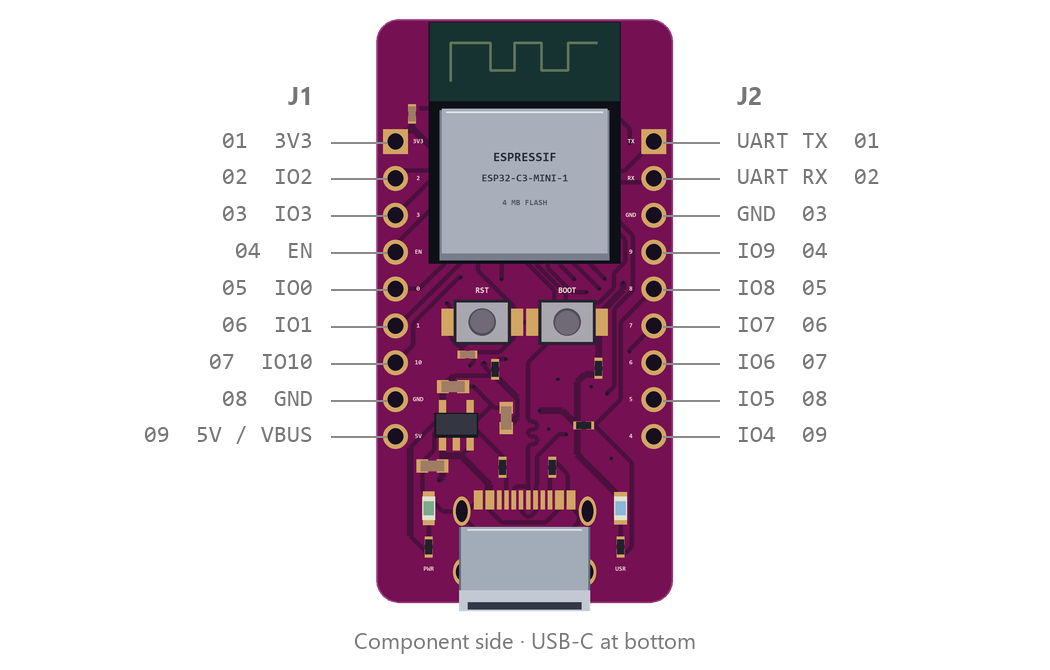
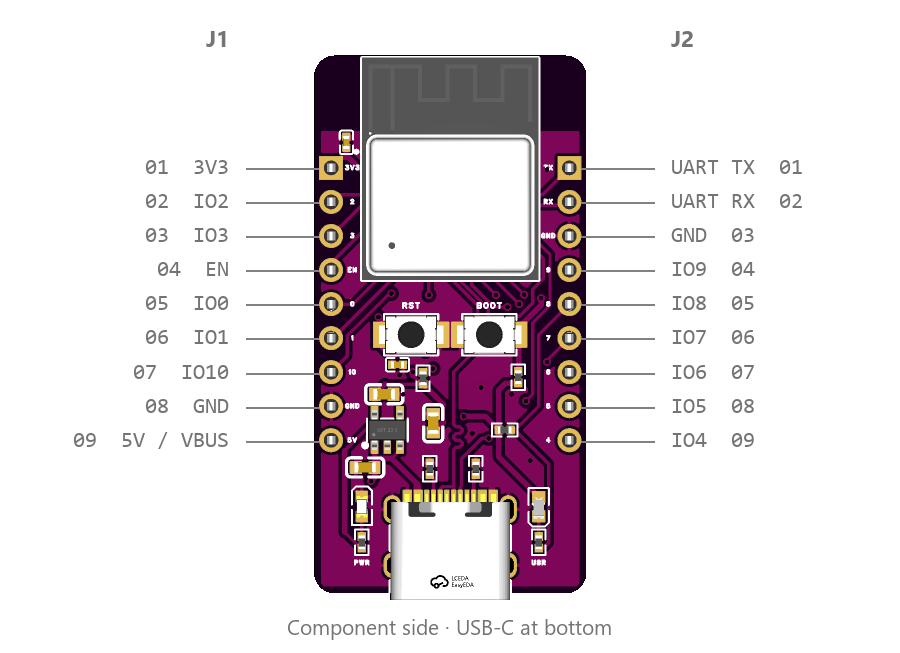
Use latest EasyEDA renders in README and pinout

diff --git a/README.md b/README.md
@@ -3,11 +3,11 @@
 <p align="center"><strong>SUNSET-C3 Mini Dev Board</strong> is a compact ESP32-C3 development board with USB-C.</p>
 
 <p align="center">
-  <img src="docs/sunset-hero.png" width="560" alt="Front and back of the SUNSET-V1 PCB">
+  <img src="docs/sunset-hero.png" width="520" alt="Front and back of the SUNSET-V1 PCB">
 </p>
 
 <p align="center">
-  Layout renders · <a href="docs/pcb-front.png">Front</a> · <a href="docs/pcb-back.png">Back</a>
+  <a href="docs/pcb-front.png">Front</a> · <a href="docs/pcb-back.png">Back</a>
 </p>
 
 
